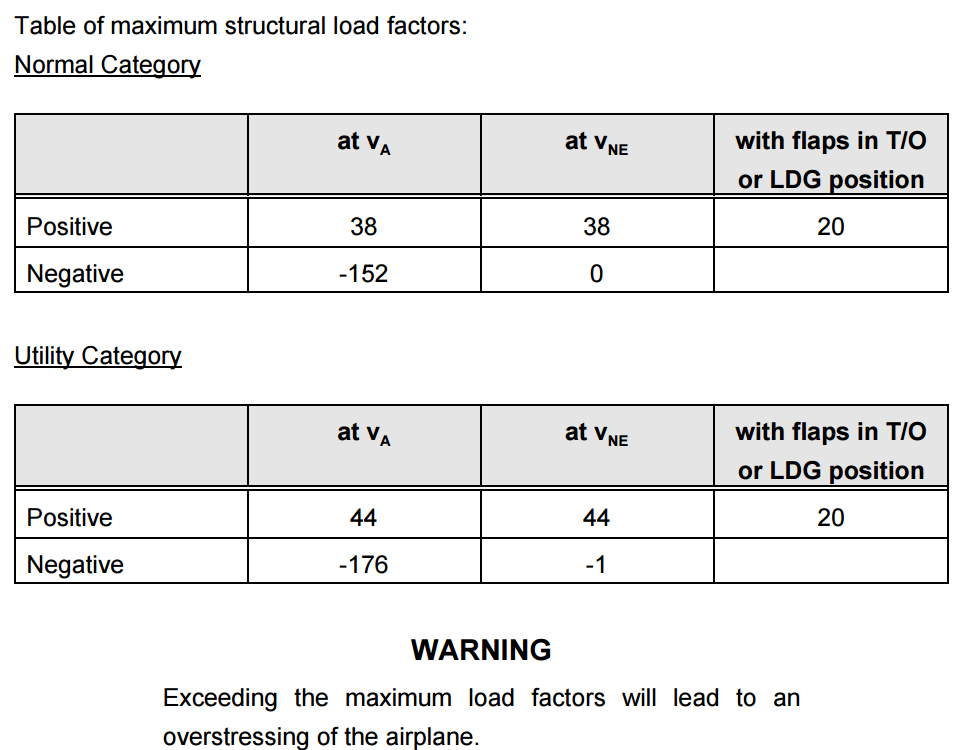
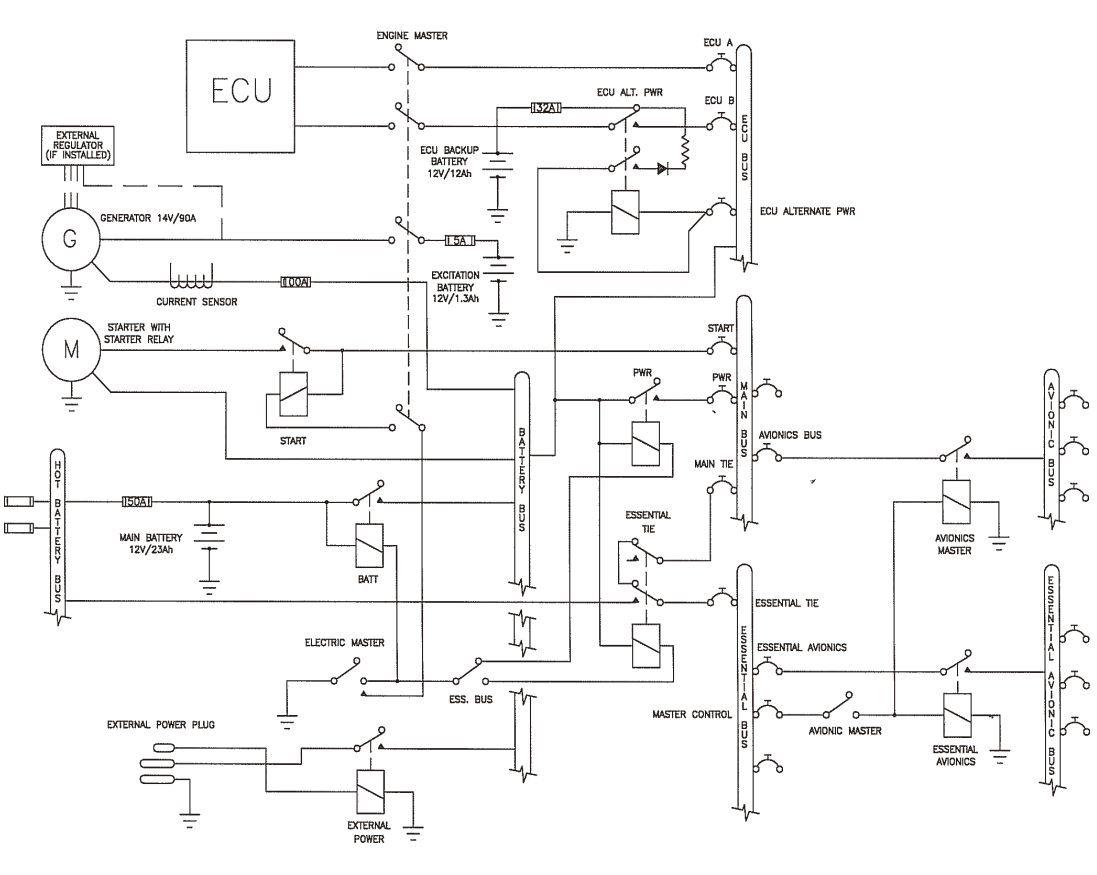
feat(da40): update slide 2.5 load factors image with user screenshot

diff --git a/src/features/learning/content/da40-course-data.ts b/src/features/learning/content/da40-course-data.ts
@@ -1152,7 +1152,7 @@ export const DA40_LESSON_2 = {
           </div>
 
           <div class="w-full flex-1 min-h-0 rounded-xl overflow-hidden border border-slate-200 dark:border-slate-700/80 shadow-xs bg-white dark:bg-white flex items-center justify-center p-2 lesson-img-wrapper" draggable="false" style="position: relative;">
-            <img src="https://wkxylgsauhruoopclfwm.supabase.co/storage/v1/object/public/course-covers/fleet/da40/da40-load-factors.png?v=1" alt="Tabla Oficial de Factores de Carga Estructurales Diamond DA40 TDI" class="w-full h-full max-h-[480px] object-contain rounded-lg" style="aspect-ratio: auto; object-fit: contain; max-width: 100%; height: auto;">
+            <img src="https://wkxylgsauhruoopclfwm.supabase.co/storage/v1/object/public/course-covers/fleet/da40/da40-load-factors.png?v=2" alt="Tabla Oficial de Factores de Carga Estructurales Diamond DA40 TDI" class="w-full h-full max-h-[480px] object-contain rounded-lg" style="aspect-ratio: auto; object-fit: contain; max-width: 100%; height: auto;">
           </div>
         </div>
       </div>
